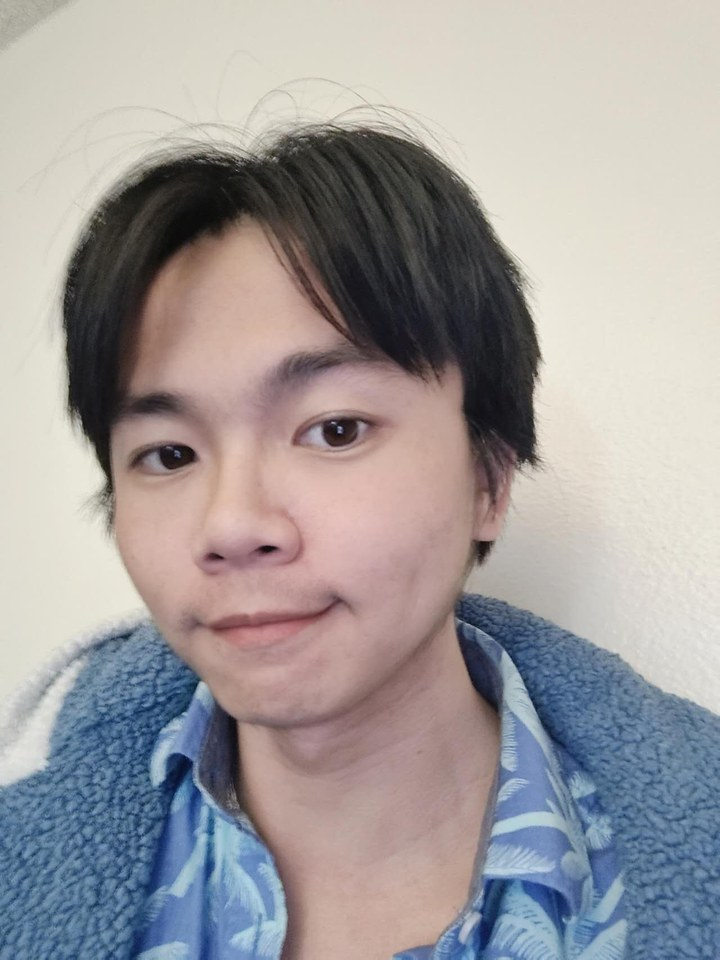
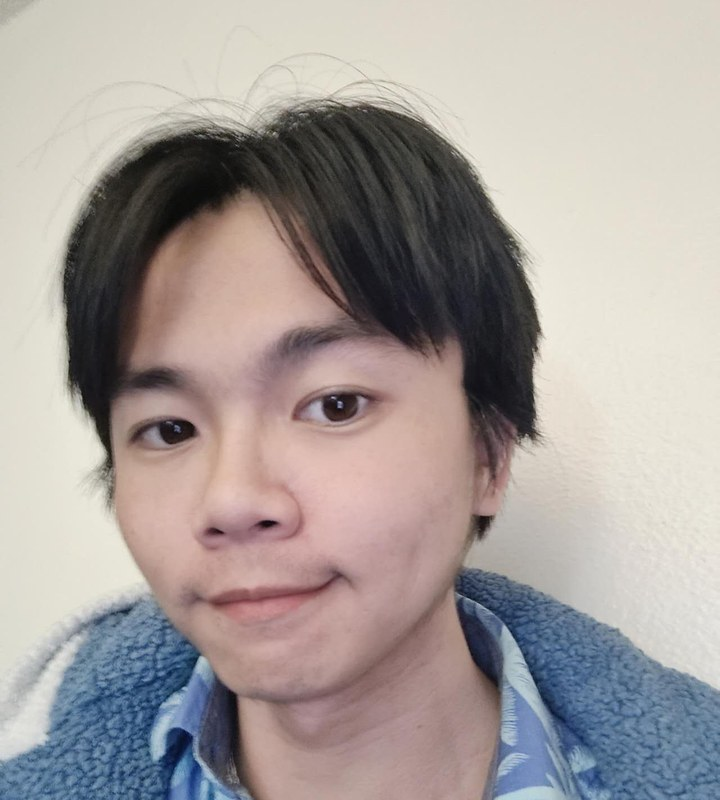
Crop the hero portrait to 9:10
The full 3:4 frame carried ~270px of chest below the chin, which made
the card read as too tall next to the text block. Re-cropped from the
1280x1706 original to keep headroom and the collar.

diff --git a/css/site.css b/css/site.css
@@ -190,10 +190,10 @@ section.resume-section {
 }
 
 .hero-portrait {
-    /* native 3:4 frame: the head fills too much of the shot to sit
-       comfortably in a square or a circle, so show the full frame */
+    /* 9:10 head-and-shoulders crop: the full 3:4 frame carried too much
+       chest, a square or circle clips the head */
     width: 14rem;
-    aspect-ratio: 3 / 4;
+    aspect-ratio: 9 / 10;
     height: auto;
     border-radius: 14px;
     object-fit: cover;
